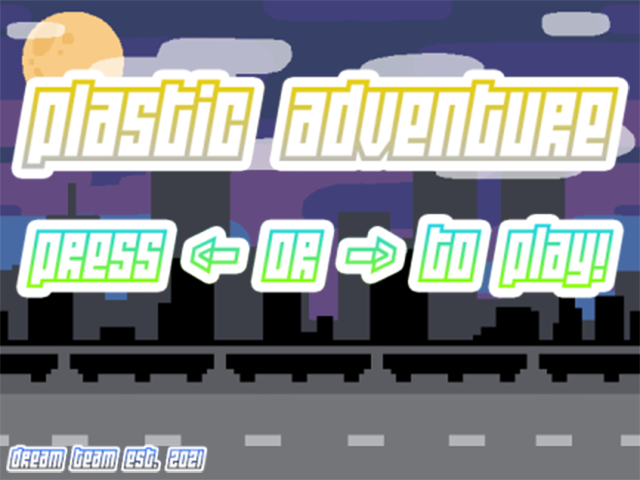
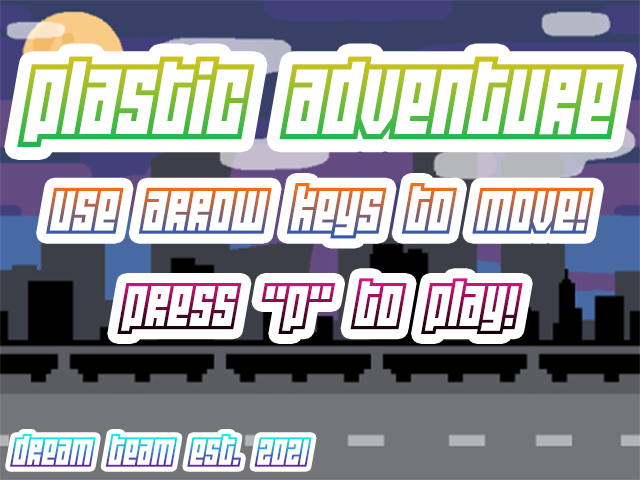
final CHANGES

diff --git a/src/scenes/Play.js b/src/scenes/Play.js
@@ -7,10 +7,11 @@ class Play extends Phaser.Scene {
         //preload assets for the game here
         this.load.image('bag','./assets/pinkplastic.png');
         this.load.image('background','./assets/city.png');
+        this.load.image('end','./assets/gameOver.png');
         this.load.image('moon', './assets/moon.png');
         this.load.image('street', './assets/street.png');
         this.load.image('garbage', './assets/trashcan.png');
-        this.load.image('coin', './assets/blueplastic.png');
+        this.load.image('blueBag', './assets/blueplastic.png');
     }
     
     create(){
@@ -38,6 +39,7 @@ class Play extends Phaser.Scene {
 
 
         //set up keys for player input
+        keyR = this.input.keyboard.addKey(Phaser.Input.Keyboard.KeyCodes.R);
         keyUP = this.input.keyboard.addKey(Phaser.Input.Keyboard.KeyCodes.UP);
         keyDOWN = this.input.keyboard.addKey(Phaser.Input.Keyboard.KeyCodes.DOWN);
         keyLEFT = this.input.keyboard.addKey(Phaser.Input.Keyboard.KeyCodes.LEFT);
@@ -49,7 +51,7 @@ class Play extends Phaser.Scene {
             runChildUpdate: true
         });
 
-        this.coinGroup = this.add.group({
+        this.blueGroup = this.add.group({
             runChildUpdate: true
         });
 
@@ -60,7 +62,7 @@ class Play extends Phaser.Scene {
         
 
         this.time.delayedCall(2000, () => {
-            this.addCoin();
+            this.addBlue();
         });
 
         this.score = 0;
@@ -78,12 +80,12 @@ class Play extends Phaser.Scene {
         this.trashGroup.add(trash);
     }
     
-    //add coin to group
-    addCoin()
+    //add BlueBag
+    addBlue()
     {
         let tilt = Phaser.Math.Between(0, 50);
-        let coin = new Coin(this, this.garbageSpeed - tilt);
-        this.coinGroup.add(coin);
+        let coin = new Blue(this, this.garbageSpeed - tilt);
+        this.blueGroup.add(coin);
     }
 
     update(){
@@ -116,14 +118,18 @@ class Play extends Phaser.Scene {
             this.physics.world.collide(bag, this.trashGroup, this.trashCollision, null, this);
 
             //checks if bag overlaps with coin
-            this.physics.world.overlap(bag, this.coinGroup, this.coinCollide, null, this);
+            this.physics.world.overlap(bag, this.blueGroup, this.blueCollide, null, this);
         }
 
+            if(Phaser.Input.Keyboard.JustDown(keyR)){
+                this.game.sound.stopAll();
+                this.scene.restart();
+            }
 
     }
     //adds points to score on collision with coin
     // destory coin on collide
-    coinCollide()
+    blueCollide()
     {
         this.sound.play('paper');
         this.score += 10;
@@ -132,7 +138,7 @@ class Play extends Phaser.Scene {
         //help from TA to destory instance of coin on collision
         var minDis = 100000;
         var temp = null;
-        this.coinGroup.getChildren().forEach(function(coin){
+        this.blueGroup.getChildren().forEach(function(coin){
             var dis = Math.sqrt(Math.pow(coin.x-bag.x,2) + Math.pow(coin.y - bag.y,2));
             if(dis < minDis){
                 temp = coin;
@@ -145,6 +151,7 @@ class Play extends Phaser.Scene {
     //when bag collides with trash
     trashCollision()
     {
+        this.gameOver = this.add.tileSprite(0,0,640,480,'end').setOrigin(0,0);
         this.sound.play('trashcan');
         bag.destroyed = true;
         bag.destroy();

diff --git a/src/scenes/Menu.js b/src/scenes/Menu.js
@@ -17,28 +17,10 @@ class Menu extends Phaser.Scene {
     create()
     {
         this.background = this.add.tileSprite(0,0,640,480,'title').setOrigin(0,0);
-        //menu text fongiguration
-        let menuConfig = {
-            fontFamily: 'Courier',
-            fontSize: '28px',
-            backgroundColor: '#F3B141',
-            color: '#843605',
-            align: 'right',
-            padding: {
-                top: 5,
-                bottom: 5,
-            },
-            fixedWidth: 0
-        }
-            // show menu text
-        /*this.add.text(game.config.width/2, game.config.height/2 - borderUISize - borderPadding, 'Endless Runner', menuConfig).setOrigin(0.5);
-        this.add.text(game.config.width/2, game.config.height/2, 'Use arrows to move', menuConfig).setOrigin(0.5);
-        menuConfig.backgroundColor = '#00FF00';
-        menuConfig.color = '#000';
-        this.add.text(game.config.width/2, game.config.height/2 + borderUISize + borderPadding + 30, 'Press ← or → to play', menuConfig).setOrigin(0.5);
-        */
+    
 
         // define keys
+        keyP = this.input.keyboard.addKey(Phaser.Input.Keyboard.KeyCodes.P);
         keyLEFT = this.input.keyboard.addKey(Phaser.Input.Keyboard.KeyCodes.LEFT);
         keyRIGHT = this.input.keyboard.addKey(Phaser.Input.Keyboard.KeyCodes.RIGHT);
         keyUP = this.input.keyboard.addKey(Phaser.Input.Keyboard.KeyCodes.UP);
@@ -47,8 +29,7 @@ class Menu extends Phaser.Scene {
     
 
   update() {
-    if (Phaser.Input.Keyboard.JustDown(keyLEFT) || Phaser.Input.Keyboard.JustDown(keyRIGHT)) {
-      //this.sound.play('sfx_select');
+    if (Phaser.Input.Keyboard.JustDown(keyP)) {
       this.scene.start("playScene");    
       this.sound.play("playSound");
     }  

diff --git a/src/prefabs/Blue.js b/src/prefabs/Blue.js
@@ -1,22 +1,20 @@
-class Coin extends Phaser.Physics.Arcade.Sprite{
+class Blue extends Phaser.Physics.Arcade.Sprite{
     constructor( scene, velocity) {
-        super(scene, game.config.width + 32, Phaser.Math.Between(16, game.config.height - 16), 'coin');
+        super(scene, game.config.width + 32, Phaser.Math.Between(16, game.config.height - 16), 'blueBag');
         scene.add.existing(this);
         scene.physics.add.existing(this);
         this.setVelocityX(velocity);
         this.setImmovable();
-        this.newCoin = true;
-        //this.points = pointValue;
-        //this.moveSpeed = game.settings.garbageSpeed;
+        this.newBlue = true;
     }
 
     update()
     {
         //spawn new coin when current one reaches middle of map
-        if(this.newCoin && this.x < game.config.width/2)
+        if(this.newBlue && this.x < game.config.width/2)
         {
-            this.newCoin = false;
-            this.scene.addCoin(this.parent, this.velocity);
+            this.newBlue = false;
+            this.scene.addBlue(this.parent, this.velocity);
         }
 
         //destory coin when it goes off screen

diff --git a/index.html b/index.html
@@ -7,7 +7,7 @@
     <title>Endless Runner</title>
     <script src="lib/phaser.js"></script>
     <script src="src/prefabs/Garbage.js"></script>
-    <script src="src/scenes/Coin.js"></script>
+    <script src="src/prefabs/Blue.js"></script>
     <script src="src/scenes/Play.js"></script>
     <script src="src/scenes/Menu.js"></script>
     <script src="src/prefabs/Bag.js"></script>

diff --git a/src/main.js b/src/main.js
@@ -18,7 +18,7 @@ let borderUISize = game.config.height / 15;
 let borderPadding = borderUISize / 3;
 
 // reserve keyboard variables
-let keyUP, keyDOWN, keyLEFT, keyRIGHT;
+let keyP, keyR, keyUP, keyDOWN, keyLEFT, keyRIGHT;
 let bag = null;
 const bagVelocity = 40;
 const garbageWidth = 88;
